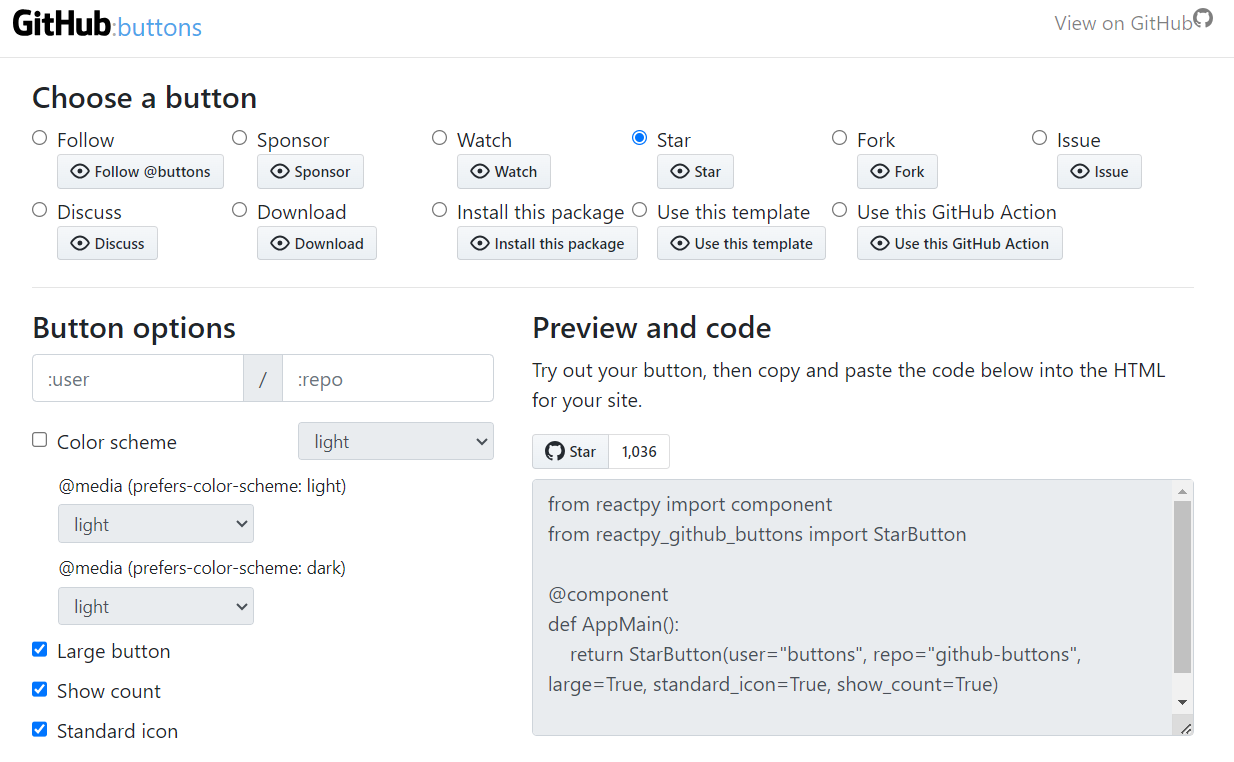
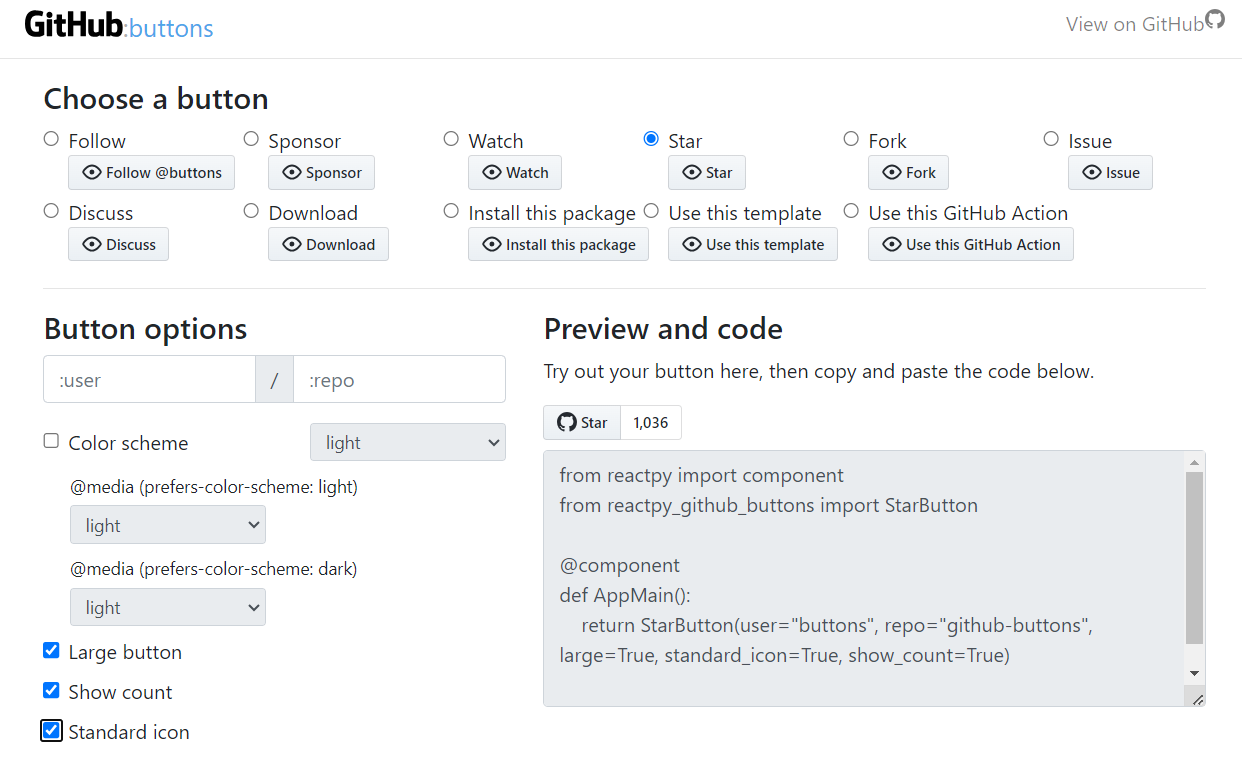
Tidy up

diff --git a/examples/button_playground.py b/examples/button_playground.py
@@ -334,7 +334,7 @@ def AppBody():
                 ),
                 html.div({'class_name': 'col-12 col-sm-6 col-md-7'},
                     html.h4("Preview and code"),
-                    html.p("Try out your button, then copy and paste the code below into the HTML for your site."),
+                    html.p("Try out your button here, then copy and paste the code below."),
                     html.p({'style': 'height: 20px;'}, example_button(button)),
                     html.div({'class_name': 'form-group'},
                         html.textarea({'class_name': 'form-control', 'rows': '8', 'readonly': True, 'value': usage_template(button)})

diff --git a/README.md b/README.md
@@ -27,7 +27,6 @@ def AppMain():
 
 
 if __name__ == "__main__":
-    log.setLevel(logging.INFO)
     run(AppMain)
 ```
 
